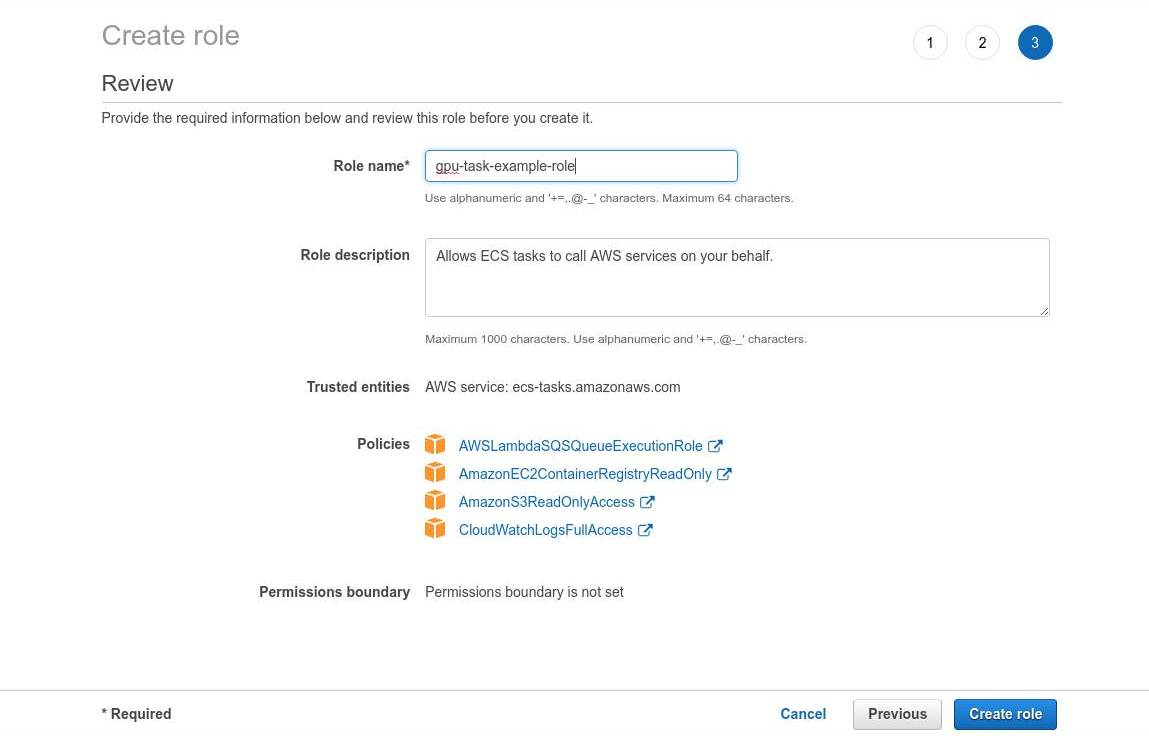
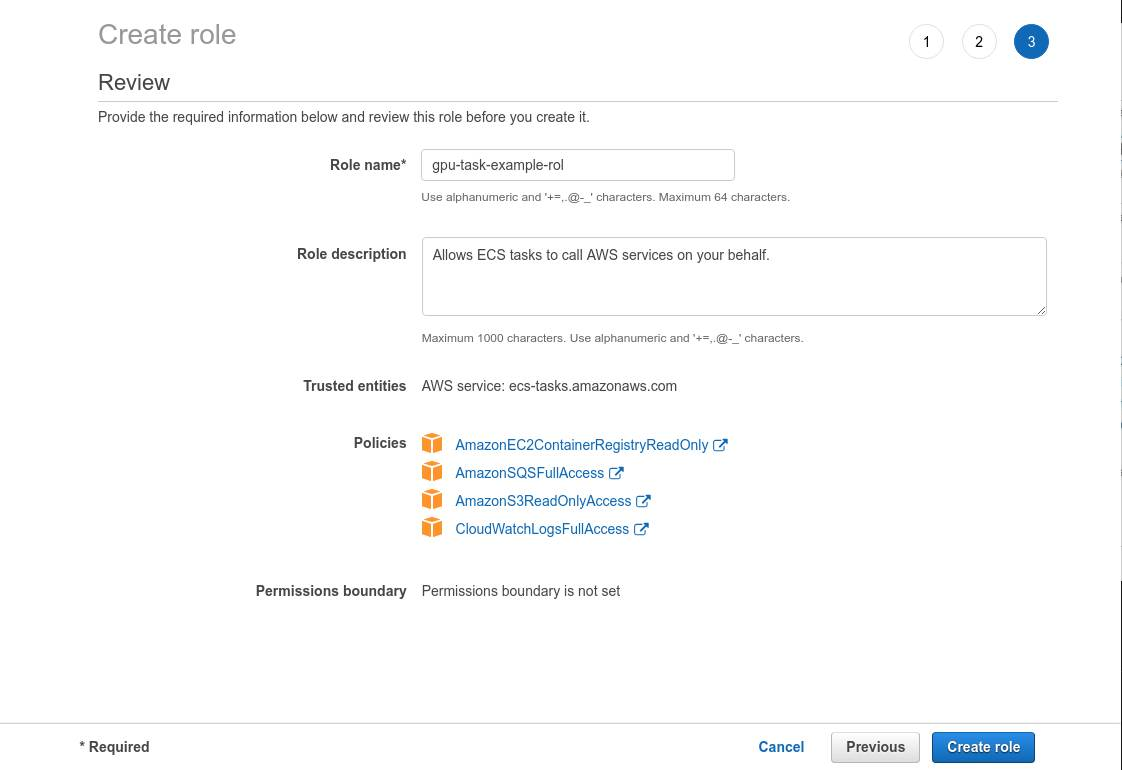
fix access

diff --git a/src/worker.py b/src/worker.py
@@ -8,8 +8,9 @@ import json
 import os
 
 model = ResNet50(weights='imagenet')
+
 bucket = boto3.resource('s3').Bucket('ml-gpu-example')
-queue = boto3.resource('sqs').get_queue_by_name(QueueName='example-gpu-queue')
+queue = boto3.resource('sqs', 'eu-central-1').get_queue_by_name(QueueName='example-gpu-queue')
 
 def processImage(file):
   bucket.download_file(file, file)
